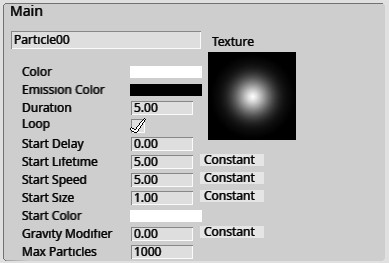
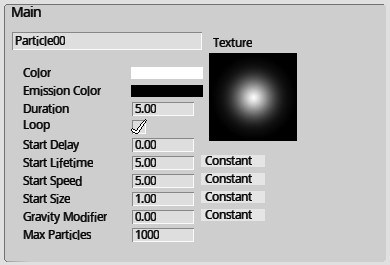
パーティクルエディタ：修正されたバグ・廃止された機能を追記

diff --git a/docs/particleeditor/pe_about_properties.ja.md b/docs/particleeditor/pe_about_properties.ja.md
@@ -28,15 +28,13 @@
 | Start Lifetime | 5.00 | パーティクル生成時の寿命（秒単位） |
 | Start Speed | 5.00 | パーティクル生成時の速度(m/s単位) |
 | Start Size | 1.00 | パーティクル生成時の大きさ |
-| Start Color | RGBA(255,255,255,255) | パーティクルの生成時の色 |
 | Gravity Modifier | 0.00 | パーティクルにかかる重力の値 |
 | Max Particles | 1000 | パーティクルが放出される最大の数 |
 
 !!! note "パーティクルの色について"
     パーティクルの色は以下のように決定されます：<br>
-    Color + Emission Color (加算) * Start Color (乗算)<br>
+    Color + Emission Color (加算)<br>
     なお、[Color over Lifetime](#color-over-lifetime)が有効の際は本設定に従わないためご注意ください。<br>
-    また、Start Colorについては次回SDKアップデートにて廃止される予定です。
 
 !!! note "Constant / Rand Twoについて"
     数値設定におけるConstant / Rand Twoは以下のように定義されます。<br>
@@ -50,10 +48,6 @@
 | ---- | ---- | ---- |
 | Rate Over Time | 10.00 | 1秒あたりのパーティクル生成数 |
 | Rate Over Distance | 0.00 | パーティクル座標の移動率に応じて生成されるパーティクル数の変化値 |
-
-!!! bug "Rate Over Distance"
-    Rate Over DistanceについてはVer9.11現在設定が反映されない状態を確認しております。<br>
-    恐れ入りますが、修正までお待ちいただければと思います。
 
 ## Shape
 
@@ -69,10 +63,6 @@
 | Arc Mode | Random | 円弧の周りでのパーティクルの生成方法を設定します。<br> Random:円弧の周囲にランダム生成 Loop:円弧の周囲にて順番に生成 |
 | Arc Speed | 1.00 | 放出位置が円弧の周囲を移動する速度を設定します |
 
-!!! bug "Shapeの設定項目について"
-    Ver9.11バージョンのエディターではCone以外のShapeにした際に一部の設定が切り替わらない現象が確認されています。
-    恐れ入りますが、修正までお待ちいただければと思います。
-
 ## Velocity over Lifetime
 
 ![pe_property_5](pe_image/pe_property_5.jpg)
@@ -81,28 +71,6 @@
 | ---- | ---- | ---- |
 | Enable | false | 本機能のオンオフ |
 | Linear | 0,0,0 | パーティクル放出中の速度が値に沿って変化します |
-| Orbital | 0,0,0 | パーティクル放出中の環状の加速度が値に沿って変化します |
-| Offset | 0,0,0 | 環状パーティクルの中心位置が変化します |
-
-!!! bug "Orbital, Offsetについて"
-    本値は現在未使用のパラメーターです。
-
-## Limit Velocity over Lifetime
-
-![pe_property_6](pe_image/pe_property_6.jpg)
-
-| 名称 | 初期値 | 機能 |
-| ---- | ---- | ---- |
-| Enable | false | 本機能のオンオフ |
-| Separate Axis | false | 設定をする際に軸をX,Y,Zに分けます |
-| Speed | 0,0,0 | パーティクルが設定値以上の速度にならないように設定できます |
-| Damp | 0.00 | パーティクルの速度が上限速度を超えた際の減衰量を設定します |
-| Drag | 0.00 | パーティクルの速度の減衰を設定します |
-| Multiply by Size | false | パーティクルの大きさが大きいほど、減衰が大きくなるように設定します |
-| Multiply by Velocity | false | パーティクルの速度が早いほど、より減衰の影響が大きくなるように設定します |
-
-!!! bug "Drag"
-    本値は現在未使用のパラメーターです。
 
 ## Size over Lifetime
 
@@ -169,10 +137,6 @@
 | Type | Birth | サブパーティクル生成の判定を主パーティクルのBirth(生成時)またはDeath(消滅時)に設定します |
 | Probability | 0.00 | サブパーティクル生成の判定の発生割合を設定します |
 
-!!! bug "Probabilityが1以上設定できてしまう不具合"
-    現バージョンのエディターではProbability値が1.00以上に設定できる不具合が確認されています。<br>
-    次回最新版にて修正される予定です。
-
 !!! caution "動作安定性について"
     本機能は現バージョンのエディターでは動作が不安定なものとなっております。<br>
     複数パーティクルを使用したい場合は別途作成することをおすすめいたします。
@@ -183,19 +147,7 @@
 
 | 名称 | 初期値 | 機能 |
 | ---- | ---- | ---- |
-| Tiles | 0,0 | テクスチャを分割して作るタイル数を変更します |
-
-## Trail
-
-![pe_property_13](pe_image/pe_property_13.jpg)
-
-| 名称 | 初期値 | 機能 |
-| ---- | ---- | ---- |
-| Enable | false | トレイル機能(トレイルエフェクト)のオンオフを設定します |
-
-!!! bug "本機能について"
-    本機能はVer9.11現在設定できない状態が確認されております。<br>
-    代替として、Render Setting / Render ModeをStretchedに切り替えると疑似的な実装が可能です。
+| Tiles | 1,1 | テクスチャを分割して作るタイル数を変更します |
 
 ## Render Setting
 
@@ -203,10 +155,10 @@
 
 | 名称 | 初期値 | 機能 |
 | ---- | ---- | ---- |
-| Render Mode | Billboard | パーティクルの表示方向を設定します<br> Billboard: 常にカメラ方向を向きます Stretched: カメラの方向を向き、大きさの変更が適用されます |
+| Render Mode | Billboard | パーティクルの表示方向を設定します<br> Billboard: 常にカメラ方向を向きます<br> Stretched: カメラの方向を向き、大きさの変更が適用されます。いわゆるTrail効果を作りたい際に有効です |
 | Speed Scale | 0.00 | 速度に比例して大きさを変更します |
 | Length Scale | 0.00 | 大きさを横向きに変更します |
-| Render Alignment | View | パーティクルの整列方法を設定します。<br> View: カメラの平面に対して整列 Local: ゲームオブジェクトのTransformコンポーネントに対して整列 Velocity: パーティクルの進行方向に対して整列 |
+| Render Alignment | View | パーティクルの整列方法を設定します。<br> View: カメラの平面に対して整列 Local: ゲームオブジェクトのTransformコンポーネントに対して整列<br> Velocity: パーティクルの進行方向に対して整列 |
 
 ## Easing Typeについて
 

diff --git a/docs/particleeditor/pe_about_properties.en.md b/docs/particleeditor/pe_about_properties.en.md
@@ -28,15 +28,13 @@ Using the particle editor, diverse particle effects can be created by editing th
 | Start Lifetime | 5.00 | Initial Lifetime of particle on emission (seconds) |
 | Start Speed | 5.00 | Initial speed of particle on emission (m/s) |
 | Start Size | 1.00 | Initial size of particle on emission |
-| Start Color | RGBA(255,255,255,255) | Initial color of particle on emission |
 | Gravity Modifier | 0.00 | Gravity bias on particles |
 | Max Particles | 1000 | Maximum particle count allowed to be emitted |
 
 !!! note "Designating particle colors"
     The particle colors are decided as below:<br>
-    Color + Emission Color (Addition) * Start Color (multiplication)<br>
+    Color + Emission Color (Addition) <br>
     Please note that the color decided will not be used when [Color over Lifetime](#color-over-lifetime) is enabled.<br>
-    Also, Start Color is planned to be deprecated on the next SDK update.
 
 !!! note "About Constant / Rand Two"
     The Constant / Rand Two options on designating values is defined as follows:<br>
@@ -50,10 +48,6 @@ Using the particle editor, diverse particle effects can be created by editing th
 | ---- | ---- | ---- |
 | Rate Over Time | 10.00 | Particle emission rate per second |
 | Rate Over Distance | 0.00 | Particle Emission rate change per emitting position change from its original position |
-
-!!! bug "Rate Over Distance"
-    Rate Over Distance is confirmed to be malfunctioning on Ver9.11.<br>
-    We ask you for your patience as fix is underway.
 
 ## Shape
 
@@ -69,10 +63,6 @@ Using the particle editor, diverse particle effects can be created by editing th
 | Arc Mode | Random | Emission mode of how to emit particles on the arc.<br> Random: Random emission around the arc Loop: Ordered emission around the arc |
 | Arc Speed | 1.00 | Designates speed of changing emission positions |
 
-!!! bug "About Shape settings"
-    On the Ver9.11 editor, some settings may not change as intended when changing Shape to other shapes than Cone.
-    We ask you for your patience as fix is underway.
-
 ## Velocity over Lifetime
 
 ![pe_property_5](pe_image/pe_property_5.jpg)
@@ -81,28 +71,6 @@ Using the particle editor, diverse particle effects can be created by editing th
 | ---- | ---- | ---- |
 | Enable | false | Enable/Disable this feature |
 | Linear | 0,0,0 | Velocity change during particle emission on each axis |
-| Orbital | 0,0,0 | Orbital velocity change during particle emission on each axis |
-| Offset | 0,0,0 | Offset for orbital particles' center position |
-
-!!! bug "About Orbital and Offset"
-    These values are currently unused.
-
-## Limit Velocity over Lifetime
-
-![pe_property_6](pe_image/pe_property_6.jpg)
-
-| Label | Initial Value | Function |
-| ---- | ---- | ---- |
-| Enable | false | Enable/Disable this feature |
-| Separate Axis | false | Separates axis to X, Y, and Z for each value settings |
-| Speed | 0,0,0 | Designates the speed limit of the particle |
-| Damp | 0.00 | Designates the damp rate when particle velocity is over the speed limit |
-| Drag | 0.00 | Sets the drag rate of particle velocity |
-| Multiply by Size | false | When enabled, drag effect will be bigger when particle size is bigger |
-| Multiply by Velocity | false |  When enabled, drag effect will be bigger when particle velocity is bigger |
-
-!!! bug "Drag"
-    This value is currently unused.
 
 ## Size over Lifetime
 
@@ -169,10 +137,6 @@ Using the particle editor, diverse particle effects can be created by editing th
 | Type | Birth | Emits the sub particle on the main particle's Birth or Death |
 | Probability | 0.00 | Designates the probability of sub particle emitting |
 
-!!! bug "Probability being able to set over 1"
-    On the current SDK version's editor, an issue is recognized which the Probability value can be set over than 1.00.<br>
-    This issue is planned to be fixed on the next version.
-
 !!! caution "Performance Instability"
     This feature is unstable on the current version's particle editor.<br>
     Creating another particle is recommended for using multiple particles.
@@ -185,28 +149,16 @@ Using the particle editor, diverse particle effects can be created by editing th
 | ---- | ---- | ---- |
 | Tiles | 0,0 | Designates the number of tiles created by splitting the texture |
 
-## Trail
-
-![pe_property_13](pe_image/pe_property_13.jpg)
-
-| Label | Initial Value | Function |
-| ---- | ---- | ---- |
-| Enable | false | Enable/Disable Trail Effects |
-
-!!! bug "Feature unusable"
-    On the current SDK version's editor, this feature is unusable due to technical issues.<br>
-    As a substitute, setting "Render Setting / Render Mode" to Streched will create a pseudo-trail effect.
-
 ## Render Setting
 
 ![pe_property_14](pe_image/pe_property_14.jpg)
 
 | Label | Initial Value | Function |
 | ---- | ---- | ---- |
-| Render Mode | Billboard | Designates the particle render mode<br> Billboard: Always face the camera Stretched: Faces the camera, and allows scale change |
+| Render Mode | Billboard | Designates the particle render mode<br> Billboard: Always face the camera <br> Stretched: Faces the camera, and allows scale change. Creates a pseudo-trail effect |
 | Speed Scale | 0.00 | Designates the scale change according to particle speed |
 | Length Scale | 0.00 | Changes the particle scale horizontally |
-| Render Alignment | View | Designates the particle alignment. <br> View: align according to camera Local: align according to gameobject's Transform component Velocity: align according to particle direction |
+| Render Alignment | View | Designates the particle alignment. <br> View: align according to camera Local: align according to gameobject's Transform component<br> Velocity: align according to particle direction |
 
 ## About Easing Type
 

diff --git a/docs/changelog/changelog-12.1.ja.md b/docs/changelog/changelog-12.1.ja.md
@@ -33,6 +33,8 @@
 - SDK Tools
   - [デバッグコンソール](https://vrhikky.github.io/VketCloudSDK_Documents/12.1/ja/debugconsole/debugconsole.html)
     - テクスチャサイズ（メモリ）とメッシュポリゴン数の表示について追記
+  - [パーティクルエディター：プロパティ一覧](https://vrhikky.github.io/VketCloudSDK_Documents/12.1/ja/particleeditor/pe_about_properties.html)
+    - 修正されたバグ・廃止された機能を追記
 - ワールドの軽量化方法
   - [テクスチャ圧縮](https://vrhikky.github.io/VketCloudSDK_Documents/12.1/ja/WorldOptimization/TextureCompression.html)
     - Texture Import Viewerについて案内を追加

diff --git a/docs/changelog/changelog-12.1.en.md b/docs/changelog/changelog-12.1.en.md
@@ -33,6 +33,8 @@
 - SDK Tools
   - [Debug Console](https://vrhikky.github.io/VketCloudSDK_Documents/12.1/en/debugconsole/debugconsole.html)
     - Added info on Texture Size (Memory) and Mesh Polygon Count indicator
+  - [Particle Editor - Properties](https://vrhikky.github.io/VketCloudSDK_Documents/12.1/en/particleeditor/pe_about_properties.html)
+    - Removed notice on fixed bugs and deleted info on deprecated features
 - World Optimization
   - [Texture Compression](https://vrhikky.github.io/VketCloudSDK_Documents/12.1/en/WorldOptimization/TextureCompression.html)
     - Added overview of Texture Import Viewer
